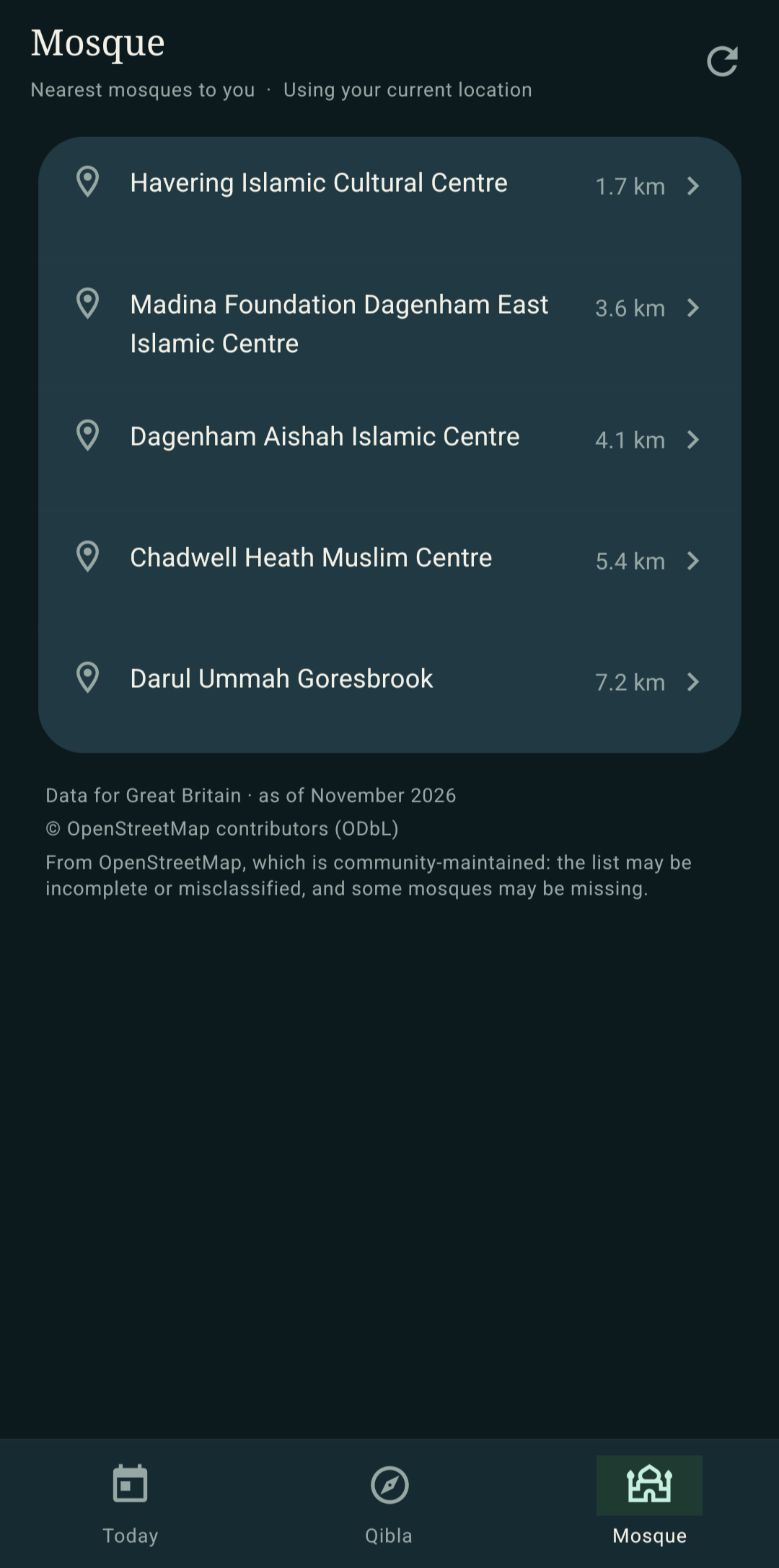
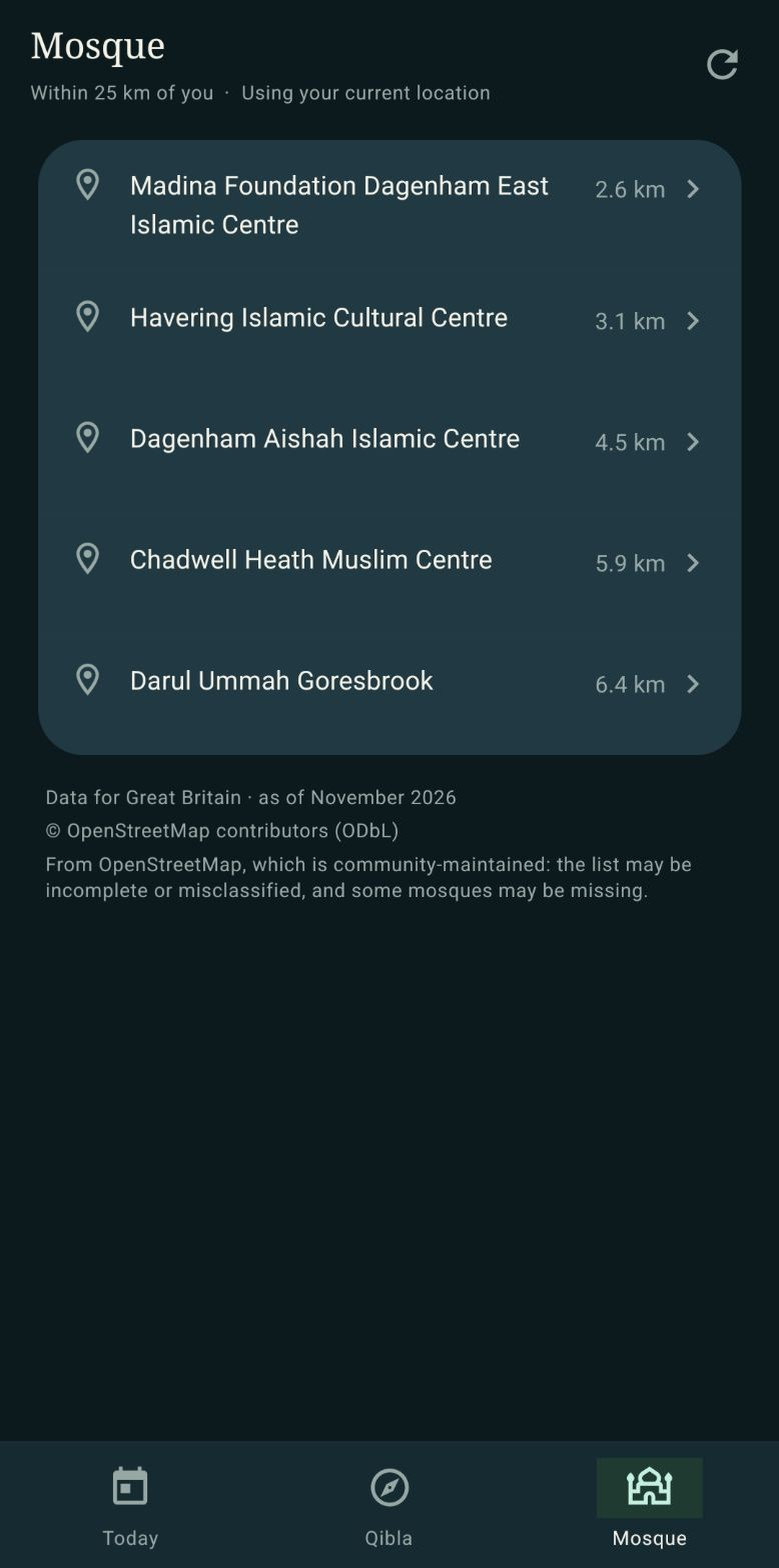
Update Adhan mosque listing screenshot

diff --git a/adhan/index.html b/adhan/index.html
@@ -23,9 +23,9 @@
 <meta name="twitter:image" content="https://ejaad.co.uk/adhan/assets/img/og.png" />
 
 <link rel="icon" href="assets/img/brand-mark.svg" type="image/svg+xml" />
-<link rel="stylesheet" href="/assets/css/fonts.css?v=20261119-2" />
-<link rel="stylesheet" href="assets/css/styles.css?v=20261119-2" />
-<link rel="stylesheet" href="/assets/css/consent.css?v=20261119-2" />
+<link rel="stylesheet" href="/assets/css/fonts.css?v=20261120" />
+<link rel="stylesheet" href="assets/css/styles.css?v=20261120" />
+<link rel="stylesheet" href="/assets/css/consent.css?v=20261120" />
 <script type="application/ld+json">
 {
   "@context": "https://schema.org",
@@ -214,7 +214,7 @@
         <figure class="screen">
           <div class="screen-stage">
             <div class="phone">
-              <img src="assets/img/screens/mosque.jpg" alt="The Mosque screen: a list of nearby mosques with distances." />
+              <img src="assets/img/screens/mosque.jpg?v=20261120" alt="The Mosque screen: a list of nearby mosques, each with its distance, within 25 km of the current location." />
             </div>
           </div>
           <figcaption>
@@ -386,7 +386,7 @@
   </div>
 </div>
 
-<script src="/assets/js/consent.js?v=20261119-2" defer></script>
-<script src="/assets/js/year.js?v=20261119-2" defer></script>
+<script src="/assets/js/consent.js?v=20261120" defer></script>
+<script src="/assets/js/year.js?v=20261120" defer></script>
 </body>
 </html>

diff --git a/adhan/privacy/index.html b/adhan/privacy/index.html
@@ -24,10 +24,10 @@
 <meta name="twitter:image" content="https://ejaad.co.uk/adhan/assets/img/og.png" />
 
 <link rel="icon" href="/adhan/assets/img/brand-mark.svg" type="image/svg+xml" />
-<link rel="stylesheet" href="/assets/css/fonts.css?v=20261119-2" />
-<link rel="stylesheet" href="/adhan/assets/css/styles.css?v=20261119-2" />
-<link rel="stylesheet" href="/assets/css/legal.css?v=20261119-2" />
-<link rel="stylesheet" href="/assets/css/consent.css?v=20261119-2" />
+<link rel="stylesheet" href="/assets/css/fonts.css?v=20261120" />
+<link rel="stylesheet" href="/adhan/assets/css/styles.css?v=20261120" />
+<link rel="stylesheet" href="/assets/css/legal.css?v=20261120" />
+<link rel="stylesheet" href="/assets/css/consent.css?v=20261120" />
 </head>
 <body>
 <a class="skip-link" href="#main">Skip to content</a>
@@ -313,7 +313,7 @@
   </div>
 </div>
 
-<script src="/assets/js/consent.js?v=20261119-2" defer></script>
-<script src="/assets/js/year.js?v=20261119-2" defer></script>
+<script src="/assets/js/consent.js?v=20261120" defer></script>
+<script src="/assets/js/year.js?v=20261120" defer></script>
 </body>
 </html>

diff --git a/index.html b/index.html
@@ -25,10 +25,10 @@
 <link rel="icon" href="assets/img/brand-mark.svg" type="image/svg+xml" />
 <link rel="apple-touch-icon" href="assets/img/brand-mark-180.png" />
 
-<link rel="stylesheet" href="/assets/css/fonts.css?v=20261119-2" />
-<link rel="stylesheet" href="assets/css/styles.css?v=20261119-2" />
-<link rel="stylesheet" href="/assets/css/consent.css?v=20261119-2" />
-<script src="/assets/js/boot.js?v=20261119-2"></script>
+<link rel="stylesheet" href="/assets/css/fonts.css?v=20261120" />
+<link rel="stylesheet" href="assets/css/styles.css?v=20261120" />
+<link rel="stylesheet" href="/assets/css/consent.css?v=20261120" />
+<script src="/assets/js/boot.js?v=20261120"></script>
 
 <script type="application/ld+json">
 {
@@ -617,7 +617,7 @@
   </div>
 </div>
 
-<script src="assets/js/main.js?v=20261119-2" defer></script>
-<script src="assets/js/consent.js?v=20261119-2" defer></script>
+<script src="assets/js/main.js?v=20261120" defer></script>
+<script src="assets/js/consent.js?v=20261120" defer></script>
 </body>
 </html>

diff --git a/privacy/index.html b/privacy/index.html
@@ -12,10 +12,10 @@
 <link rel="canonical" href="https://ejaad.co.uk/privacy/" />
 <link rel="icon" href="/assets/img/brand-mark.svg" type="image/svg+xml" />
 <link rel="apple-touch-icon" href="/assets/img/brand-mark-180.png" />
-<link rel="stylesheet" href="/assets/css/fonts.css?v=20261119-2" />
-<link rel="stylesheet" href="/assets/css/styles.css?v=20261119-2" />
-<link rel="stylesheet" href="/assets/css/legal.css?v=20261119-2" />
-<link rel="stylesheet" href="/assets/css/consent.css?v=20261119-2" />
+<link rel="stylesheet" href="/assets/css/fonts.css?v=20261120" />
+<link rel="stylesheet" href="/assets/css/styles.css?v=20261120" />
+<link rel="stylesheet" href="/assets/css/legal.css?v=20261120" />
+<link rel="stylesheet" href="/assets/css/consent.css?v=20261120" />
 </head>
 <body>
 <a class="skip-link" href="#main">Skip to content</a>
@@ -146,6 +146,6 @@
   </div>
 </div>
 
-<script src="/assets/js/consent.js?v=20261119-2" defer></script>
+<script src="/assets/js/consent.js?v=20261120" defer></script>
 </body>
 </html>

diff --git a/404.html b/404.html
@@ -10,10 +10,10 @@
 <meta name="theme-color" content="#ffffff" />
 <link rel="icon" href="/assets/img/brand-mark.svg" type="image/svg+xml" />
 <link rel="apple-touch-icon" href="/assets/img/brand-mark-180.png" />
-<link rel="stylesheet" href="/assets/css/fonts.css?v=20261119-2" />
-<link rel="stylesheet" href="/assets/css/styles.css?v=20261119-2" />
-<link rel="stylesheet" href="/assets/css/404.css?v=20261119-2" />
-<link rel="stylesheet" href="/assets/css/consent.css?v=20261119-2" />
+<link rel="stylesheet" href="/assets/css/fonts.css?v=20261120" />
+<link rel="stylesheet" href="/assets/css/styles.css?v=20261120" />
+<link rel="stylesheet" href="/assets/css/404.css?v=20261120" />
+<link rel="stylesheet" href="/assets/css/consent.css?v=20261120" />
 </head>
 <body>
 <main class="notfound">
@@ -38,6 +38,6 @@
   </div>
 </div>
 
-<script src="/assets/js/consent.js?v=20261119-2" defer></script>
+<script src="/assets/js/consent.js?v=20261120" defer></script>
 </body>
 </html>

diff --git a/cat-island/index.html b/cat-island/index.html
@@ -24,9 +24,9 @@
 
 <link rel="icon" href="assets/img/icon.png" type="image/png" />
 <link rel="apple-touch-icon" href="assets/img/icon.png" />
-<link rel="stylesheet" href="/assets/css/fonts.css?v=20261119-2" />
-<link rel="stylesheet" href="assets/css/styles.css?v=20261119-2" />
-<link rel="stylesheet" href="/assets/css/consent.css?v=20261119-2" />
+<link rel="stylesheet" href="/assets/css/fonts.css?v=20261120" />
+<link rel="stylesheet" href="assets/css/styles.css?v=20261120" />
+<link rel="stylesheet" href="/assets/css/consent.css?v=20261120" />
 <script type="application/ld+json">
 {
   "@context": "https://schema.org",
@@ -430,7 +430,7 @@
   </div>
 </div>
 
-<script src="/assets/js/consent.js?v=20261119-2" defer></script>
-<script src="/assets/js/year.js?v=20261119-2" defer></script>
+<script src="/assets/js/consent.js?v=20261120" defer></script>
+<script src="/assets/js/year.js?v=20261120" defer></script>
 </body>
 </html>

diff --git a/treat-trail/index.html b/treat-trail/index.html
@@ -24,9 +24,9 @@
 
 <link rel="icon" href="assets/img/icon.png" type="image/png" />
 <link rel="apple-touch-icon" href="assets/img/icon.png" />
-<link rel="stylesheet" href="/assets/css/fonts.css?v=20261119-2" />
-<link rel="stylesheet" href="assets/css/styles.css?v=20261119-2" />
-<link rel="stylesheet" href="/assets/css/consent.css?v=20261119-2" />
+<link rel="stylesheet" href="/assets/css/fonts.css?v=20261120" />
+<link rel="stylesheet" href="assets/css/styles.css?v=20261120" />
+<link rel="stylesheet" href="/assets/css/consent.css?v=20261120" />
 <script type="application/ld+json">
 {
   "@context": "https://schema.org",
@@ -403,7 +403,7 @@
   </div>
 </div>
 
-<script src="/assets/js/consent.js?v=20261119-2" defer></script>
-<script src="/assets/js/year.js?v=20261119-2" defer></script>
+<script src="/assets/js/consent.js?v=20261120" defer></script>
+<script src="/assets/js/year.js?v=20261120" defer></script>
 </body>
 </html>

diff --git a/README.md b/README.md
@@ -64,13 +64,13 @@ the same filename.
 
 GitHub Pages serves every file with `Cache-Control: max-age=600`, so browsers can keep old CSS
 and JS for up to ten minutes after a deploy. Stylesheet and script links therefore carry a
-version query (`?v=20261119-2`).
+version query (`?v=20261120`).
 
 After editing anything in `assets/css/`, `assets/js/`, or a product page's own `styles.css`, bump
 the token in every page so browsers fetch the new files immediately:
 
 ```powershell
-$old = '20261119-2'; $new = '20261120'
+$old = '20261120'; $new = '20261201'
 Get-ChildItem -Recurse -Filter *.html | ForEach-Object {
   (Get-Content $_.FullName -Raw).Replace("?v=$old", "?v=$new") |
     Set-Content $_.FullName -NoNewline -Encoding UTF8
